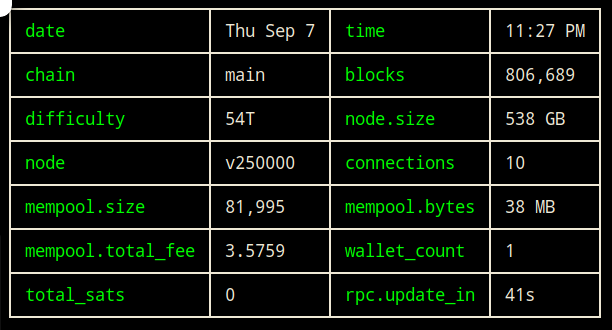
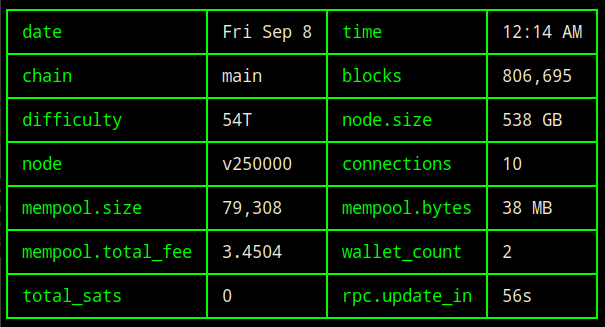
added wallets view

Changed region(s): [[0.0, 0.0, 1.0, 0.9786]]

diff --git a/rpc.py b/rpc.py
@@ -38,13 +38,9 @@ def get_info(is_txoutset=False):
     info['mempool.bytes'] = f"{int(mp['bytes']/(1024**2))} MB"
     info['mempool.total_fee'] = round(float(mp['total_fee']), 4)
     # wallets
-    wallets = get_rpc('listwallets')
-    info['wallet_count'] = len(wallets)
-    balance = 0
-    for w in wallets:
-        wt = get_rpc('getwalletinfo', wallet=w)
-        balance += float(wt['balance'])
-    info['total_sats'] = f"{int(balance * 100e6):,}"
+    wcount, wtotal = get_wallets(True)
+    info['wallet_count'] = wcount
+    info['total_sats'] = f"{int(wtotal * 100e6):,}"    
 
     # gettxoutsetinfo : global utxo set stats/chainstate
     # NOTE: This is too slow without coinstatsindex enabled
@@ -57,3 +53,18 @@ def get_info(is_txoutset=False):
 
     return info
 
+
+def get_wallets(only_summary=False):
+    wallets = get_rpc('listwallets')    
+    balance = 0
+    wallet_info = []
+    for w in wallets:
+        wt = get_rpc('getwalletinfo', wallet=w)
+        balance += float(wt['balance'])
+        wallet_info.append(wt)
+    if only_summary:
+        return len(wallets), balance
+    else:
+        return wallet_info
+
+    

diff --git a/view/wallets.py b/view/wallets.py
@@ -1,0 +1,24 @@
+from rich.console import Console
+from rich.table import Table
+import util, rpc
+
+
+def _table(wallets: list, clr):
+    if wallets and len(wallets) > 0: 
+        tbl = Table(show_header=True)
+        cols = ['name', 'balance', 'unconf_bal', 'txcount', 'pk_enabled', 'avoid_reuse']
+        for c in cols: tbl.add_column(c)
+        for w in wallets:
+            tbl.add_row(f"[{clr}]{w['walletname']}", f"[{clr}]{w['balance']}", f"[{clr}]{w['unconfirmed_balance']}", 
+                        f"[{clr}]{w['txcount']}", f"[{clr}]{w['private_keys_enabled']}", f"[{clr}]{w['avoid_reuse']}")
+        return tbl
+    
+
+def load():
+    cfg = util.get_conf('console')
+    wallets = rpc.get_wallets()
+    clr = cfg['font_color']
+    console = Console()
+    tbl = _table(wallets, clr)
+    console.print(tbl)
+    

diff --git a/view/info.py b/view/info.py
@@ -7,7 +7,7 @@ import util, rpc
 
 def _table(data: dict, clr: str, updt_in:int):
     if data: 
-        tbl = Table(show_header=False, show_lines=True, border_style='white')
+        tbl = Table(show_header=False, show_lines=True)
         datestr = dtm.now().strftime('%a %b %-d')
         timestr = dtm.now().strftime('%-I:%M %p')        
         vlist, row = [], []

diff --git a/node_cmd.py b/node_cmd.py
@@ -1,4 +1,4 @@
-from view import info
+from view import info, wallets
 import argparse
  
 
@@ -17,7 +17,7 @@ def main():
     if cmd == 'info':
         info.load()
     elif cmd == 'wallets':
-        pass #TODO
+        wallets.load()
     elif cmd == 'myutxos':
         pass #TODO
     elif cmd == 'mempool':

diff --git a/readme.md b/readme.md
@@ -4,14 +4,23 @@
 Command line tool that aggregates information from the Bitcoin RPC.
 
 #### Setup
+1. Clone and install requirements:
 ```
     git clone https://github.com/ns-xvrn/node-cmd.git &&
     cd node-cmd &&
+    cp settings.conf.sample settings.conf &&
     pip install -r requirements.txt
 ```
+2. Setup config file: edit the `settings.conf` file
+
 ---
 
-#### info view
+#### info - live view
 `python node_cmd.py info` or `python node_cmd.py`
 
 ![alt info](docs/info.png)
+
+#### wallets summary
+`python node_cmd.py wallets`
+
+![alt wallets](docs/wallets.png)
